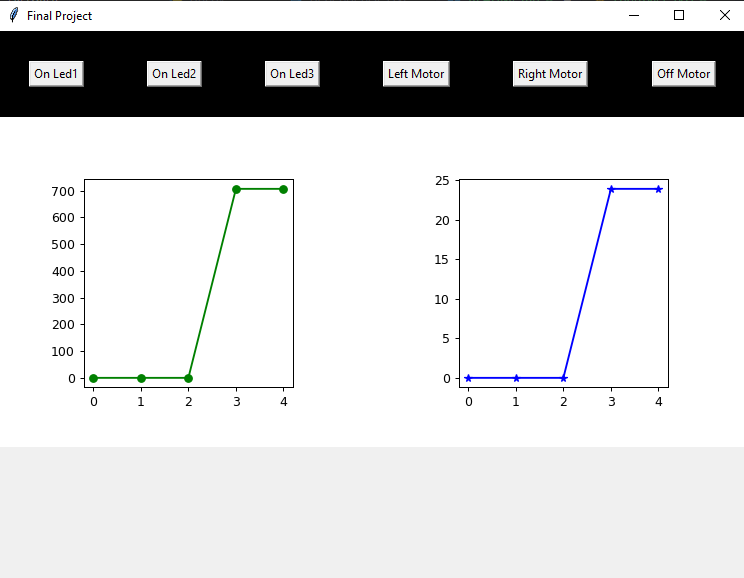
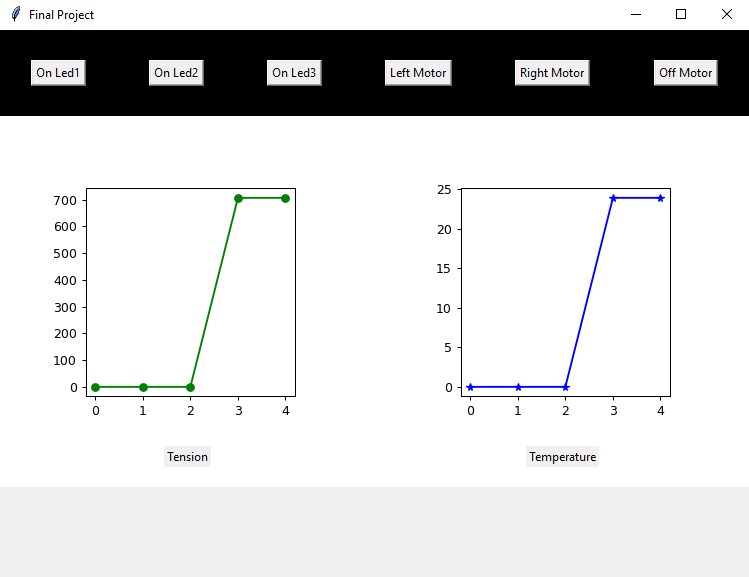
update gui

diff --git a/gui.py b/gui.py
@@ -11,15 +11,7 @@ import matplotlib.pyplot as plt
 from pandas import DataFrame
 from matplotlib.backends.backend_tkagg import FigureCanvasTkAgg
 import time
-'''
-s = serial.Serial()
-s.port = 'COM2'
-s.timeout = 2
-s.baudrate = 9600
-s.open()
-s.write(b'1')
-s.readline()
-'''
+
 state = {'potency': [0,0,0,0,0],'temperature': [0,0,0,0,0]}
 
 led1 = False
@@ -33,6 +25,7 @@ fig_pot = Figure(figsize = (3, 3), dpi = 90)
 fig_temp = Figure(figsize = (3, 3), dpi = 90)
 fig_pot.add_axes([0,8,10,50])
 fig_temp.add_axes([0,0,10,50])
+
 
 
 def create_window():
@@ -118,7 +111,7 @@ def plot_potency():
 	global state
 	global fig_pot
 	global potency_grah
-	plot1 = fig_pot.add_subplot(111)
+	plot1 = fig_pot.add_subplot()
 	plot1.plot(state['potency'],color='g',marker='o')
 	potency_grah.draw()
 	
@@ -127,9 +120,7 @@ def plot_temperature():
 	global state
 	global fig_temp
 	global temperature_graph
-	plot2 = fig_temp.add_subplot(111)
-	
-	
+	plot2 = fig_temp.add_subplot()
 	plot2.plot(state['temperature'],color='b',marker='*')
 	temperature_graph.draw()
 	
@@ -165,12 +156,17 @@ btn4 = tk.Button(top, text = "Left Motor",command = lambda: left())
 btn5 = tk.Button(top, text = "Right Motor",command = lambda: right())
 btn6 = tk.Button(top, text = "Off Motor",command = lambda: offMotor())
 
+label1 = tk.Label(bot, text='Tension')
+label2 = tk.Label(bot, text='Temperature')
 
 potency_grah = FigureCanvasTkAgg(fig_pot,master = bot)  
 temperature_graph = FigureCanvasTkAgg(fig_temp,master = bot)  
 
-potency_grah.get_tk_widget().grid(row = 0,column = 0, padx = 5, pady = 10)
-temperature_graph.get_tk_widget().grid(row = 0,column = 1, padx = 5, pady = 10)
+potency_grah.get_tk_widget().grid(row = 0,column = 0, padx = 5, pady = 20)
+temperature_graph.get_tk_widget().grid(row = 0,column = 1, padx = 5, pady = 20)
+
+label1.grid(row = 1,column = 0)
+label2.grid(row = 1,column = 1)
 
 btn1.grid(row = 0,column = 0, padx = 10, pady = 10)
 btn2.grid(row = 0,column = 1, padx = 10, pady = 10)
